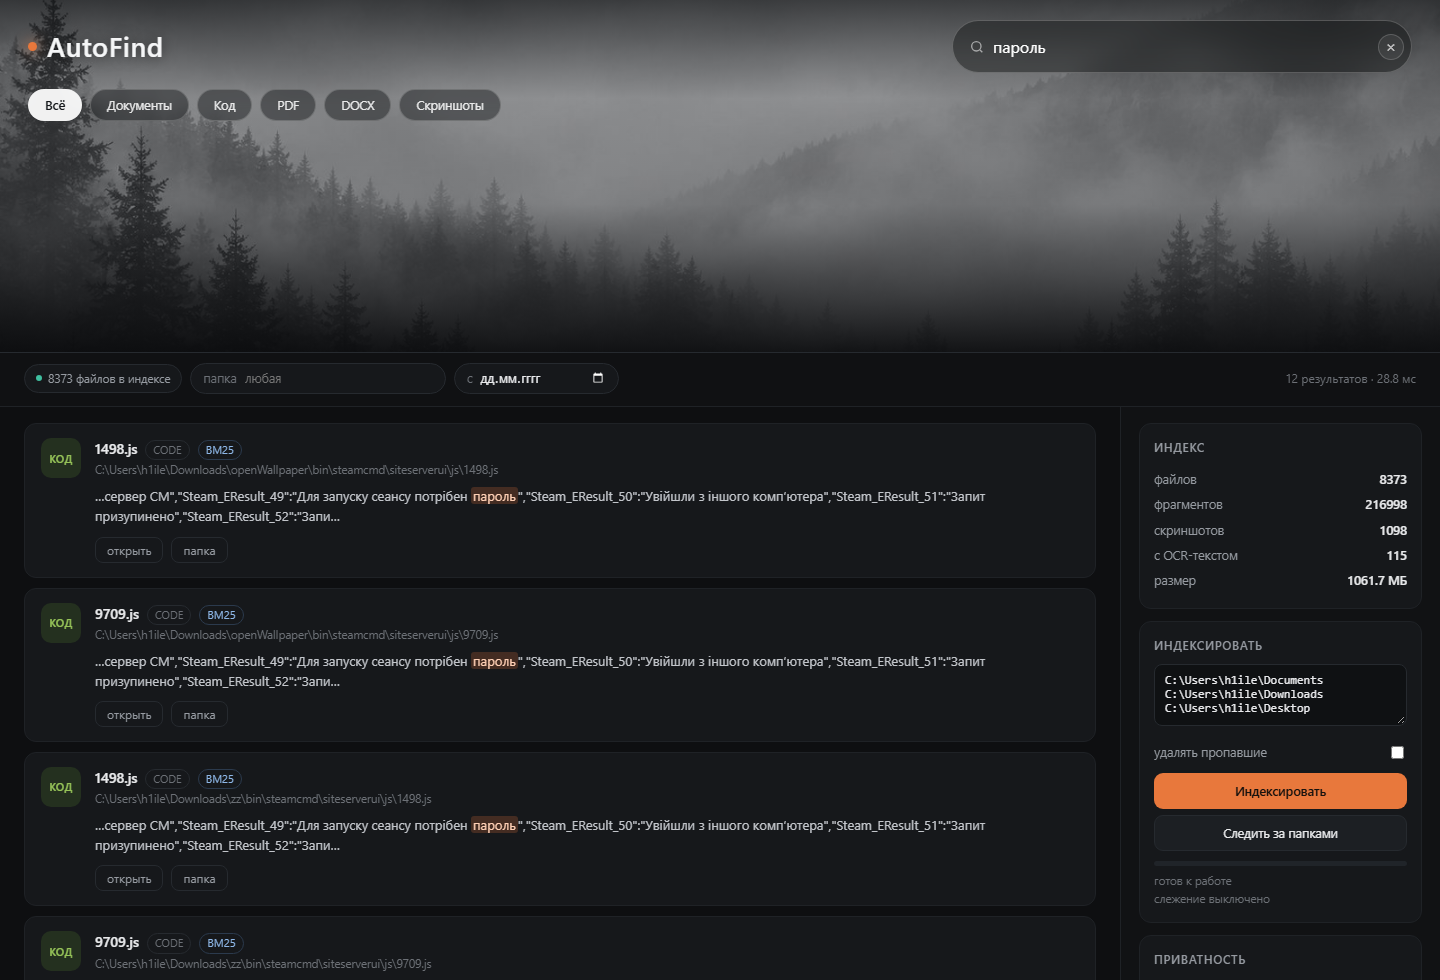
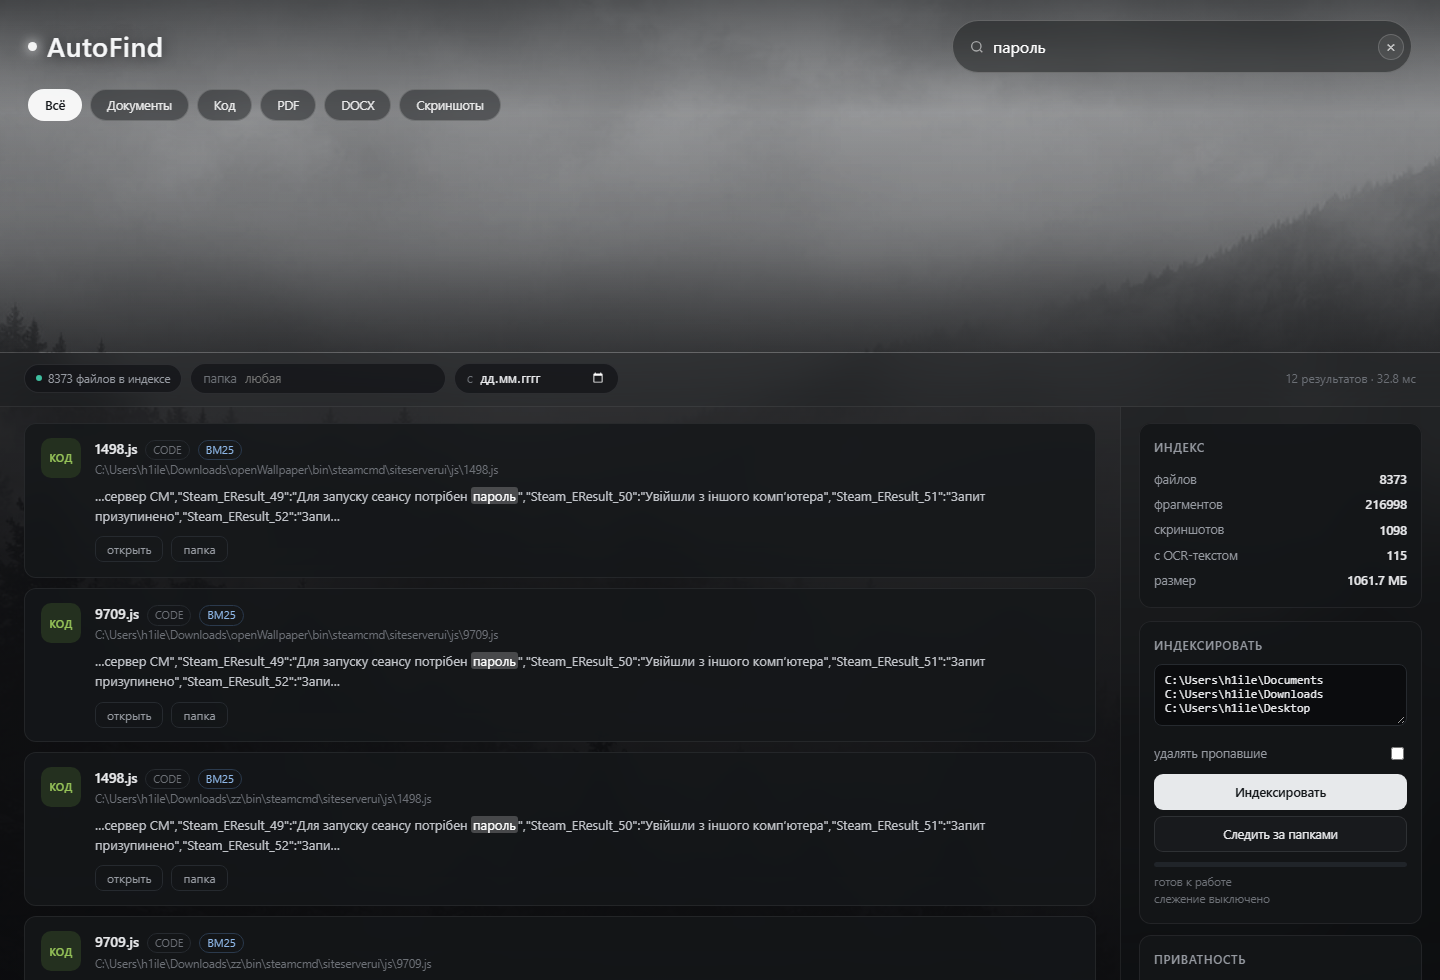
UI: photo as page background, white-grey accent
The forest image now lives on body (fixed, cover) instead of the header, with one vertical veil for the whole window and translucent glass panels (tools, results, sidebar, cards, idle plate) so the photo shows through the gaps. Results read as sitting on the image rather than below a black list. Accent moves from orange to white-grey: primary button, progress bar, match highlight, hover colour and toast; the wordmark dot is white with a soft pulse (disabled under prefers-reduced-motion).

diff --git a/web/style.css b/web/style.css
@@ -7,8 +7,11 @@
   --text: #e9eaec;
   --muted: #969aa1;
   --faint: #6c7076;
-  --accent: #e8783c;
-  --accent-soft: rgba(232, 120, 60, 0.14);
+  /* The accent is a light grey now: the only orange in the old design was the
+     button, the glowing dot and the highlight, and all three read as "warning"
+     against a foggy forest. */
+  --accent: #e7e9eb;
+  --accent-soft: rgba(231, 233, 235, 0.16);
   --teal: #3fbfa0;
   --radius: 12px;
 }
@@ -18,7 +21,6 @@
 html, body {
   margin: 0;
   padding: 0;
-  background: var(--bg);
   color: var(--text);
   font-family: -apple-system, BlinkMacSystemFont, "Segoe UI", Roboto, "Helvetica Neue", Arial, sans-serif;
   font-size: 14px;
@@ -26,9 +28,36 @@ html, body {
   overflow-x: hidden;
 }
 
+/* One photo for the whole window, fixed, so the hero and the content below it
+   are the same image instead of two crops with a seam between them. */
+body {
+  background: #0a0b0d url("/fon.jpg") center top / cover no-repeat fixed;
+}
+
+/* A single veil over the photo for the whole page. Without it the bright fog
+   band lands exactly where the results start and the list becomes unreadable
+   while the hero stays dark -- the eye reads it as two different surfaces. */
+body::before {
+  content: "";
+  position: fixed;
+  inset: 0;
+  z-index: 0;
+  pointer-events: none;
+  background: linear-gradient(
+    180deg,
+    rgba(6, 8, 10, 0) 0%,
+    rgba(7, 9, 11, 0.22) 22%,
+    rgba(8, 9, 11, 0.58) 38%,
+    rgba(9, 10, 12, 0.78) 62%,
+    rgba(9, 10, 12, 0.86) 100%
+  );
+}
+
 button, input, select { font-family: inherit; font-size: inherit; color: inherit; }
 
 .app {
+  position: relative;
+  z-index: 1;
   display: grid;
   grid-template-columns: minmax(0, 1fr) 320px;
   grid-template-rows: auto auto minmax(0, 1fr);
@@ -53,8 +82,8 @@ button, input, select { font-family: inherit; font-size: inherit; color: inherit
   display: flex;
   min-height: clamp(240px, 36vh, 380px);
   padding: 20px 28px 18px;
-  border-bottom: 1px solid var(--border);
-  background: #0b0d0f url("/fon.jpg") center 32% / cover no-repeat;
+  border-bottom: 1px solid rgba(255, 255, 255, 0.08);
+  background: transparent;
   overflow: hidden;
 }
 
@@ -64,10 +93,10 @@ button, input, select { font-family: inherit; font-size: inherit; color: inherit
   inset: 0;
   background: linear-gradient(
     180deg,
-    rgba(7, 9, 11, 0.72) 0%,
-    rgba(7, 9, 11, 0.26) 28%,
-    rgba(7, 9, 11, 0.30) 58%,
-    rgba(10, 11, 13, 0.94) 100%
+    rgba(7, 9, 11, 0.58) 0%,
+    rgba(7, 9, 11, 0.16) 32%,
+    rgba(8, 9, 11, 0.22) 72%,
+    rgba(9, 10, 12, 0.46) 100%
   );
   pointer-events: none;
 }
@@ -106,8 +135,18 @@ button, input, select { font-family: inherit; font-size: inherit; color: inherit
   width: 9px;
   height: 9px;
   border-radius: 50%;
-  background: var(--accent);
-  box-shadow: 0 0 14px rgba(232, 120, 60, 0.75);
+  background: #fff;
+  box-shadow: 0 0 10px rgba(255, 255, 255, 0.95), 0 0 26px rgba(255, 255, 255, 0.45);
+  animation: mark-pulse 2.6s ease-in-out infinite;
+}
+
+@keyframes mark-pulse {
+  0%, 100% { opacity: 0.75; box-shadow: 0 0 8px rgba(255, 255, 255, 0.6), 0 0 18px rgba(255, 255, 255, 0.22); }
+  50% { opacity: 1; box-shadow: 0 0 12px rgba(255, 255, 255, 1), 0 0 30px rgba(255, 255, 255, 0.5); }
+}
+
+@media (prefers-reduced-motion: reduce) {
+  .wordmark .mark { animation: none; }
 }
 
 .find {
@@ -126,7 +165,7 @@ button, input, select { font-family: inherit; font-size: inherit; color: inherit
 .find:focus-within {
   border-color: rgba(255, 255, 255, 0.45);
   background: rgba(9, 11, 13, 0.66);
-  box-shadow: 0 0 0 3px rgba(232, 120, 60, 0.16);
+  box-shadow: 0 0 0 3px rgba(255, 255, 255, 0.14);
 }
 
 .find svg { flex: none; color: #fff; opacity: 0.55; }
@@ -204,8 +243,9 @@ button, input, select { font-family: inherit; font-size: inherit; color: inherit
   align-items: center;
   gap: 8px;
   padding: 10px 24px 12px;
-  border-bottom: 1px solid var(--border-soft);
-  background: #101113;
+  border-bottom: 1px solid rgba(255, 255, 255, 0.07);
+  background: rgba(10, 11, 13, 0.5);
+  backdrop-filter: blur(14px) saturate(120%);
 }
 
 .pill {
@@ -213,11 +253,11 @@ button, input, select { font-family: inherit; font-size: inherit; color: inherit
   align-items: center;
   gap: 6px;
   padding: 5px 11px;
-  border: 1px solid var(--border);
+  border: 1px solid rgba(255, 255, 255, 0.09);
   border-radius: 999px;
   font-size: 11.5px;
   color: var(--muted);
-  background: var(--panel);
+  background: rgba(18, 20, 23, 0.72);
 }
 
 .pill .dot { width: 6px; height: 6px; border-radius: 50%; background: var(--teal); }
@@ -237,16 +277,16 @@ button, input, select { font-family: inherit; font-size: inherit; color: inherit
 
 .chip.active {
   background: var(--accent-soft);
-  border-color: rgba(232, 120, 60, 0.45);
-  color: #f3a97f;
+  border-color: rgba(255, 255, 255, 0.55);
+  color: var(--text);
 }
 
 .field {
   display: flex;
   align-items: center;
   gap: 6px;
-  border: 1px solid var(--border);
-  background: var(--panel);
+  border: 1px solid rgba(255, 255, 255, 0.09);
+  background: rgba(18, 20, 23, 0.72);
   border-radius: 999px;
   padding: 5px 12px;
   color: var(--faint);
@@ -277,6 +317,10 @@ main {
   grid-area: main;
   overflow-y: auto;
   padding: 16px 24px 48px;
+  /* Translucent on purpose: the photo keeps showing through the gaps between
+     cards, which is what makes the page read as one surface instead of a
+     photo header glued to a black list. */
+  background: rgba(9, 10, 12, 0.44);
 }
 
 .results { display: flex; flex-direction: column; gap: 10px; }
@@ -286,13 +330,14 @@ main {
   grid-template-columns: 40px minmax(0, 1fr);
   gap: 14px;
   padding: 14px 16px;
-  background: var(--panel);
-  border: 1px solid var(--border-soft);
+  background: rgba(21, 23, 26, 0.82);
+  border: 1px solid rgba(255, 255, 255, 0.07);
   border-radius: var(--radius);
+  backdrop-filter: blur(12px);
   transition: border-color 0.12s ease, background 0.12s ease;
 }
 
-.card:hover { border-color: #31363d; background: var(--panel-2); }
+.card:hover { border-color: rgba(255, 255, 255, 0.16); background: rgba(28, 31, 35, 0.9); }
 
 .icon {
   width: 40px;
@@ -331,7 +376,7 @@ main {
   text-decoration: none;
 }
 
-.name:hover { color: #f3a97f; }
+.name:hover { color: #fff; }
 
 .badge {
   font-size: 10.5px;
@@ -367,8 +412,8 @@ main {
 }
 
 .snippet mark {
-  background: rgba(232, 120, 60, 0.22);
-  color: #ffd0b5;
+  background: rgba(255, 255, 255, 0.22);
+  color: #fff;
   border-radius: 3px;
   padding: 0 2px;
 }
@@ -445,18 +490,20 @@ main {
 
 aside {
   grid-area: side;
-  border-left: 1px solid var(--border-soft);
+  border-left: 1px solid rgba(255, 255, 255, 0.07);
   padding: 16px 18px 40px;
   overflow-y: auto;
-  background: #111214;
+  background: rgba(11, 12, 14, 0.56);
+  backdrop-filter: blur(16px) saturate(120%);
 }
 
 .panel {
-  border: 1px solid var(--border-soft);
+  border: 1px solid rgba(255, 255, 255, 0.07);
   border-radius: var(--radius);
   padding: 14px;
   margin-bottom: 12px;
-  background: var(--panel);
+  background: rgba(22, 24, 27, 0.72);
+  backdrop-filter: blur(10px);
 }
 
 .panel h3 {
@@ -483,8 +530,8 @@ aside {
 
 .btn {
   width: 100%;
-  border: 1px solid var(--border);
-  background: var(--panel-2);
+  border: 1px solid rgba(255, 255, 255, 0.1);
+  background: rgba(26, 29, 33, 0.8);
   color: var(--text);
   padding: 9px 12px;
   border-radius: 9px;
@@ -493,14 +540,15 @@ aside {
 }
 
 .btn:hover { border-color: #3a4048; }
-.btn.primary { background: var(--accent); color: #17120e; border-color: transparent; font-weight: 600; }
+.btn.primary { background: var(--accent); color: #15181b; border-color: transparent; font-weight: 600; }
+.btn.primary:hover { filter: brightness(0.92); }
 .btn:disabled { opacity: 0.5; cursor: default; }
 
 .paths {
   width: 100%;
   min-height: 62px;
   resize: vertical;
-  background: #0f1113;
+  background: rgba(10, 11, 13, 0.72);
   border: 1px solid var(--border);
   border-radius: 8px;
   padding: 8px 10px;
@@ -542,20 +590,30 @@ aside {
   height: 100%;
   min-height: 320px;
   text-align: center;
-  color: var(--faint);
 }
 
-.empty h2 { font-size: 17px; font-weight: 500; color: var(--muted); margin: 0 0 6px; }
-.empty p { margin: 0; font-size: 13px; max-width: 380px; }
+/* The idle screen sits straight on the photo now, so it needs its own glass
+   plate: pale grey text on a foggy forest is unreadable without one. */
+.empty > div {
+  max-width: 470px;
+  padding: 26px 34px;
+  border: 1px solid rgba(255, 255, 255, 0.1);
+  border-radius: 18px;
+  background: rgba(14, 16, 19, 0.6);
+  backdrop-filter: blur(16px) saturate(120%);
+}
+
+.empty h2 { font-size: 17px; font-weight: 500; color: #e4e6e9; margin: 0 0 6px; }
+.empty p { margin: 0; font-size: 13px; max-width: 380px; color: var(--muted); }
 
 .toast {
   position: fixed;
   bottom: 20px;
   left: 50%;
   transform: translateX(-50%) translateY(20px);
-  background: #241a14;
-  border: 1px solid #4a3126;
-  color: #f3b28c;
+  background: rgba(24, 26, 29, 0.94);
+  border: 1px solid rgba(255, 255, 255, 0.16);
+  color: var(--text);
   padding: 9px 16px;
   border-radius: 10px;
   font-size: 12.5px;

diff --git a/docs/decisions.md b/docs/decisions.md
@@ -96,3 +96,21 @@ UI открывает Store на каждый запрос. Без кеша эт
 217 000 BLOB и сборка матрицы 333 МБ. Кеш — одна read-only матрица на процесс,
 инвалидируется по mtime основного файла и `-wal`. Сервер прогревает её на
 старте, чтобы первый запрос не был медленным.
+
+## 15. Фото — фон всего окна, а не шапки
+
+Сначала снимок стоял только в шапке: получалось два разных изображения с швом
+на границе и чёрный список под ним. Теперь `body` держит одно фото
+(`fixed`, `cover`), поверх — один вертикальный градиент на всё окно, а панели
+полупрозрачные со `backdrop-filter`. Отсюда два следствия: затемнение считается
+один раз (иначе полоса тумана попадала ровно на начало выдачи и текст становился
+нечитаемым), и любая новая панель обязана быть полупрозрачной, иначе она
+выглядит как дыра в фоне.
+
+## 16. Акцент — бело-серый
+
+Оранжевая кнопка и светящаяся точка на сером тумане читались как предупреждение.
+Акцент переведён в `#e7e9eb`, текст на кнопке — тёмный. Подсветка совпадений в
+сниппете тоже стала белой: цветное пятно в тексте перетягивало внимание с
+самого результата. Точка у заголовка светится мягко (`mark-pulse`), с
+`prefers-reduced-motion` анимация отключается.

diff --git a/README.md b/README.md
@@ -11,9 +11,12 @@ would break every path in the docs for no functional gain.
 
 The header follows the sketched layout: the forest photo (`web/fon.jpg`) as the
 background, the wordmark top-left, the search field with a clear button
-top-right, and the type filter as a row of pills directly under the title. A
-vertical gradient over the image is what keeps white text legible on the bright
-fog — the photo itself is untouched.
+top-right, and the type filter as a row of pills directly under the title. The
+photo is not confined to the header — it is the page background (fixed, `cover`),
+with a single vertical veil over the whole window and translucent glass panels
+on top, so results sit *on* the image and it shows through the gaps instead of
+being cut off by a black list. The accent is white-grey: an orange button read as
+a warning against fog.
 
 ## Status
 
